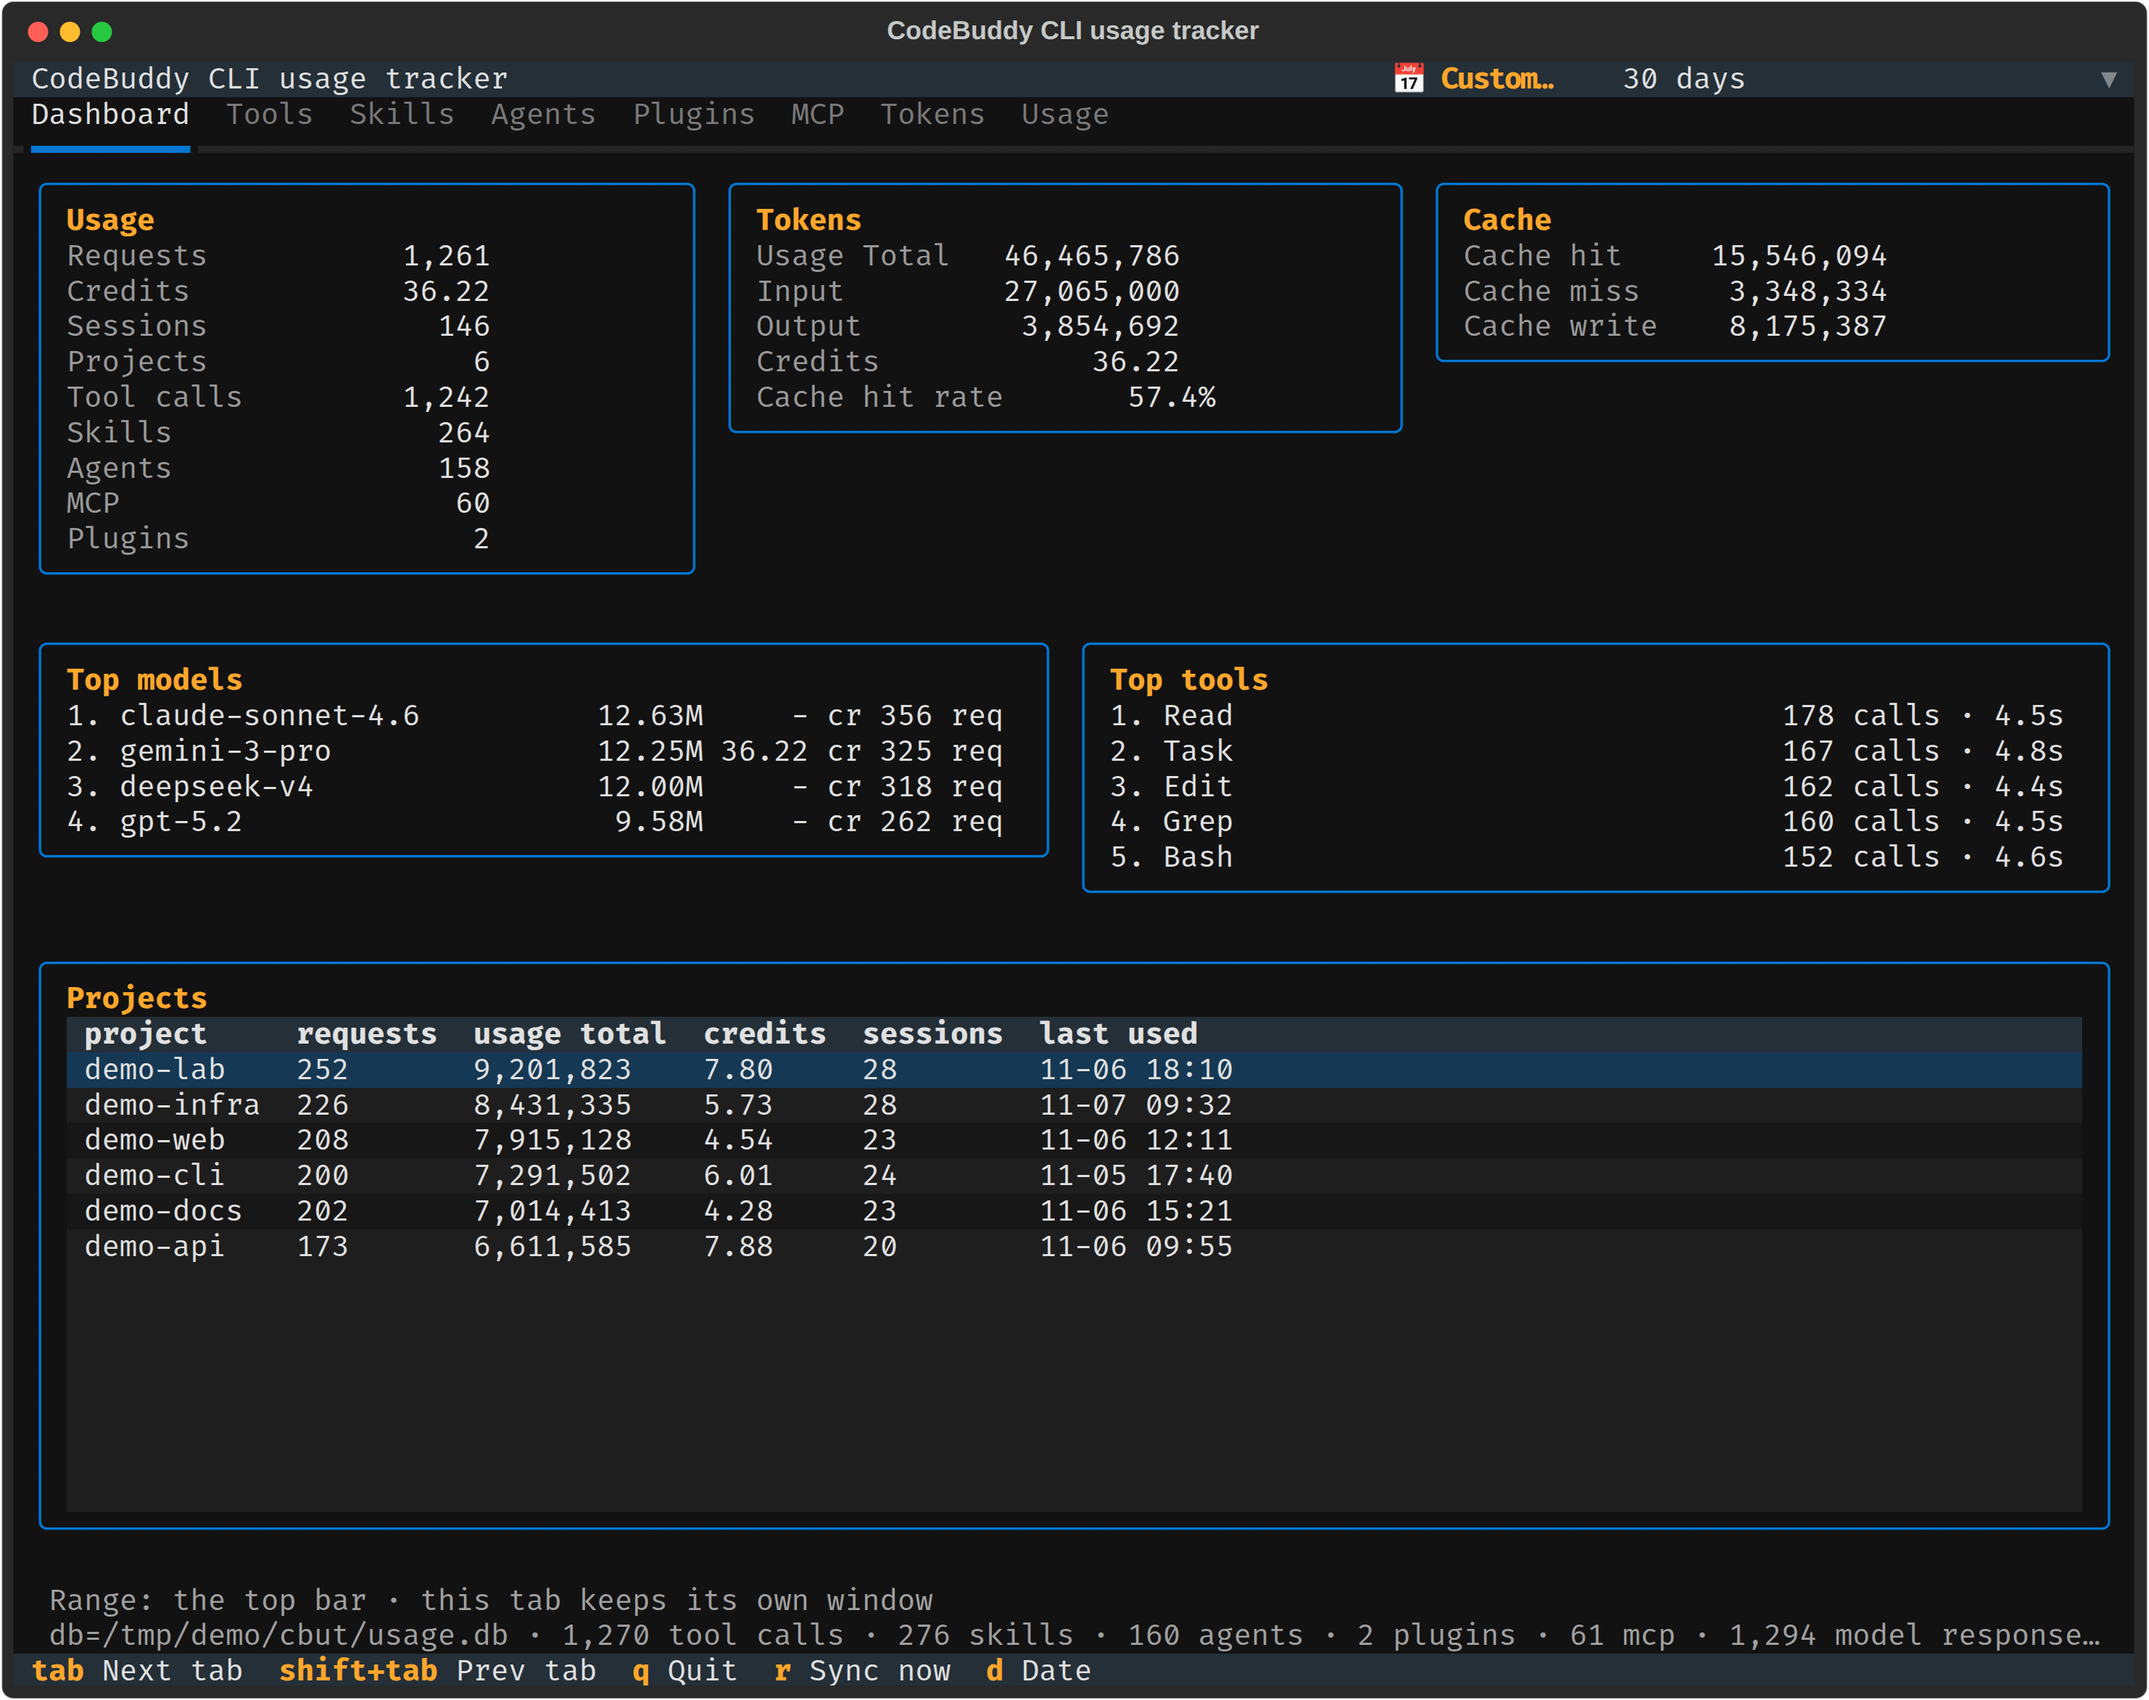
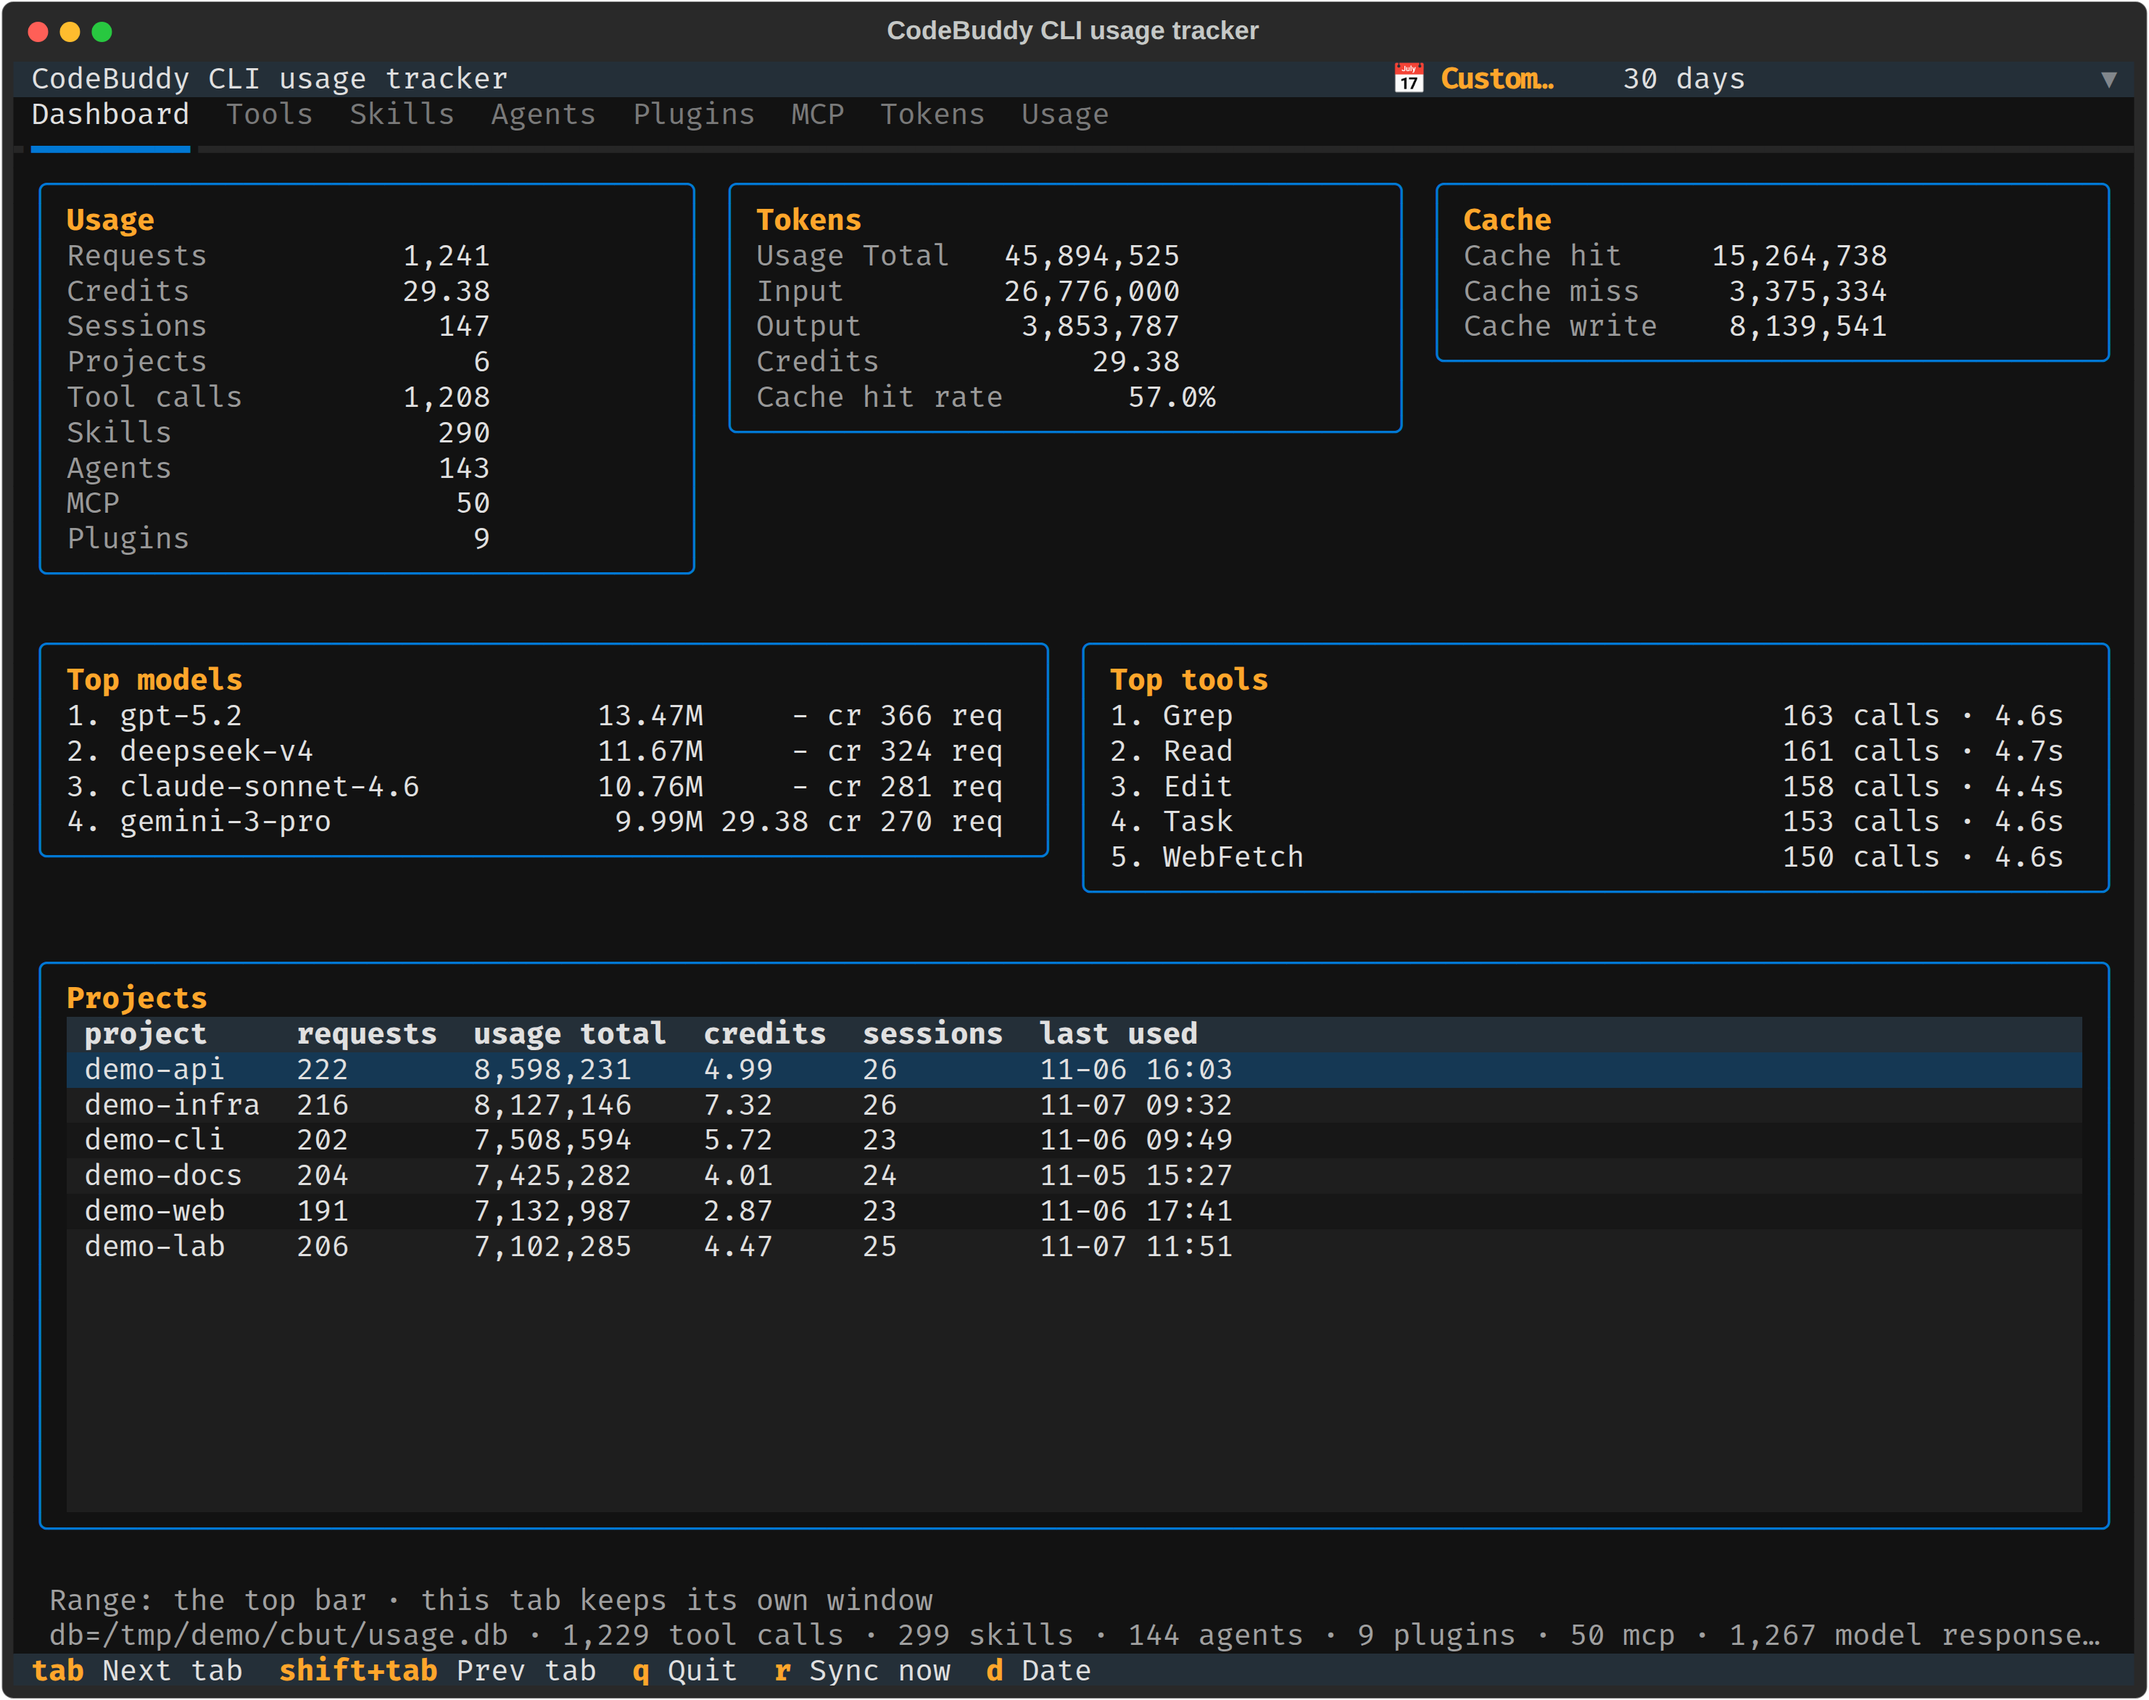
docs: walk every tab in the demo GIF and caption it
The clip now steps through the tabs in order instead of switching the range, and a caption under it names the action and what the feature shows. Both images were re-captured from a freshly seeded synthetic index with the host log and config directories redirected at empty /tmp paths, so no real tracker database was opened.

diff --git a/README.md b/README.md
@@ -95,7 +95,9 @@ index. It never touches CodeBuddy's files, installs no hook, and adds no runtime
 
 ## 📊 The eight tabs
 
-<p align="center"><img src="docs/screenshots/demo.gif" alt="Switching the window and opening a tab" width="900"></p>
+<p align="center"><img src="docs/screenshots/demo.gif" alt="Stepping through all eight tabs of the TUI" width="900"></p>
+
+<p align="center"><em><b>In the clip:</b> the TUI opens on the Dashboard and steps through all eight tabs — Tools, Skills, Agents, Plugins, MCP, Tokens, Usage — holding each long enough to read. <b>What it shows:</b> one local index cut eight ways; the range selector in the top bar re-scopes only the tab you are on, so every tab keeps its own window.</em></p>
 
 The **Dashboard** opens first: an at-a-glance summary of the important numbers, so you
 know where to look before drilling in. A shared top bar above the tabs carries the range
